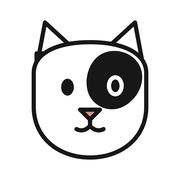
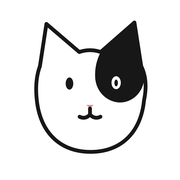
fix: redraw 77 brand mark from reference

Changed region(s): [[0.1667, 0.1111, 0.8333, 0.8889], [0.3333, 0.4167, 0.4167, 0.5556]]

diff --git a/tests/test_rescue_h5_contract.py b/tests/test_rescue_h5_contract.py
@@ -88,15 +88,15 @@ class RescueH5ContractTests(unittest.TestCase):
         )
         svg = (ROOT / "app" / "rescue" / "assets" / "brand" / "helpcat-77-mark.svg").read_text(encoding="utf-8")
         for feature in (
-            '<path fill="#FFFFFF" d="M13 24 16 8l12 11H13Z"/>',
-            '<path fill="#FFFFFF" d="m36 19 12-11 3 16H36Z"/>',
-            '<path fill="#FFFFFF" d="M12 26c0-7 8-11 20-11s20 4 20 11v12c0 11-8.9 18-20 18s-20-7-20-18Z"/>',
-            '<path fill="#171717" d="M35.5 20.5c4-3 10.5-1.8 13.2 2.7 2.6 4.4.5 10.8-4.8 13.8-4.7 2.7-10.6.2-12-4.8-1.1-4.2.3-9.2 3.6-11.7Z"/>',
-            '<ellipse cx="24" cy="31" rx="2.25" ry="3" fill="#171717" stroke="none"/>',
-            '<ellipse cx="41" cy="30.5" rx="2.25" ry="3" fill="#171717" stroke="#FFFFFF"/>',
-            '<path fill="#D99386" d="m28.5 39 3.5 3.5 3.5-3.5Z"/>',
+            '<path fill="#FFFFFF" d="M14.2 23.5 16.5 8.5l11.7 10q3.8-1.3 7.6 0L47.8 8l2.4 15.5q2.5 5.1 1 12.2C50.1 46.9 43.2 54 32.2 54S14.3 46.9 13.1 35.7q-.8-7 1.1-12.2Z"/>',
+            '<path fill="#171717" d="m36.4 18.8 11.2-9.2 2 14.7c1.4 2.2 1.2 5.4-.4 7.8-1.8 2.8-5.2 4.3-8.4 3.4-3.7-1-6.2-4.3-6.3-8.3-.1-3 .5-5.6 1.9-8.4Z"/>',
+            '<ellipse cx="24.7" cy="29.7" rx="1.35" ry="2.15" fill="#171717" stroke="none"/>',
+            '<ellipse cx="41.3" cy="29.4" rx="1.65" ry="2.3" fill="#FFFFFF" stroke="none"/>',
+            '<ellipse cx="41.3" cy="29.5" rx=".62" ry="1.2" fill="#171717" stroke="none"/>',
+            '<path fill="#D99386" stroke="none" d="m30.7 37.3 1.3 1.25 1.3-1.25Z"/>',
         ):
             self.assertIn(feature, svg)
+        self.assertNotIn('d="M12 26c0-7 8-11 20-11s20 4 20 11', svg)
 
     def test_hero_uses_one_continuous_warm_backdrop(self):
         styles = (ROOT / "app" / "rescue" / "styles.css").read_text(encoding="utf-8")
